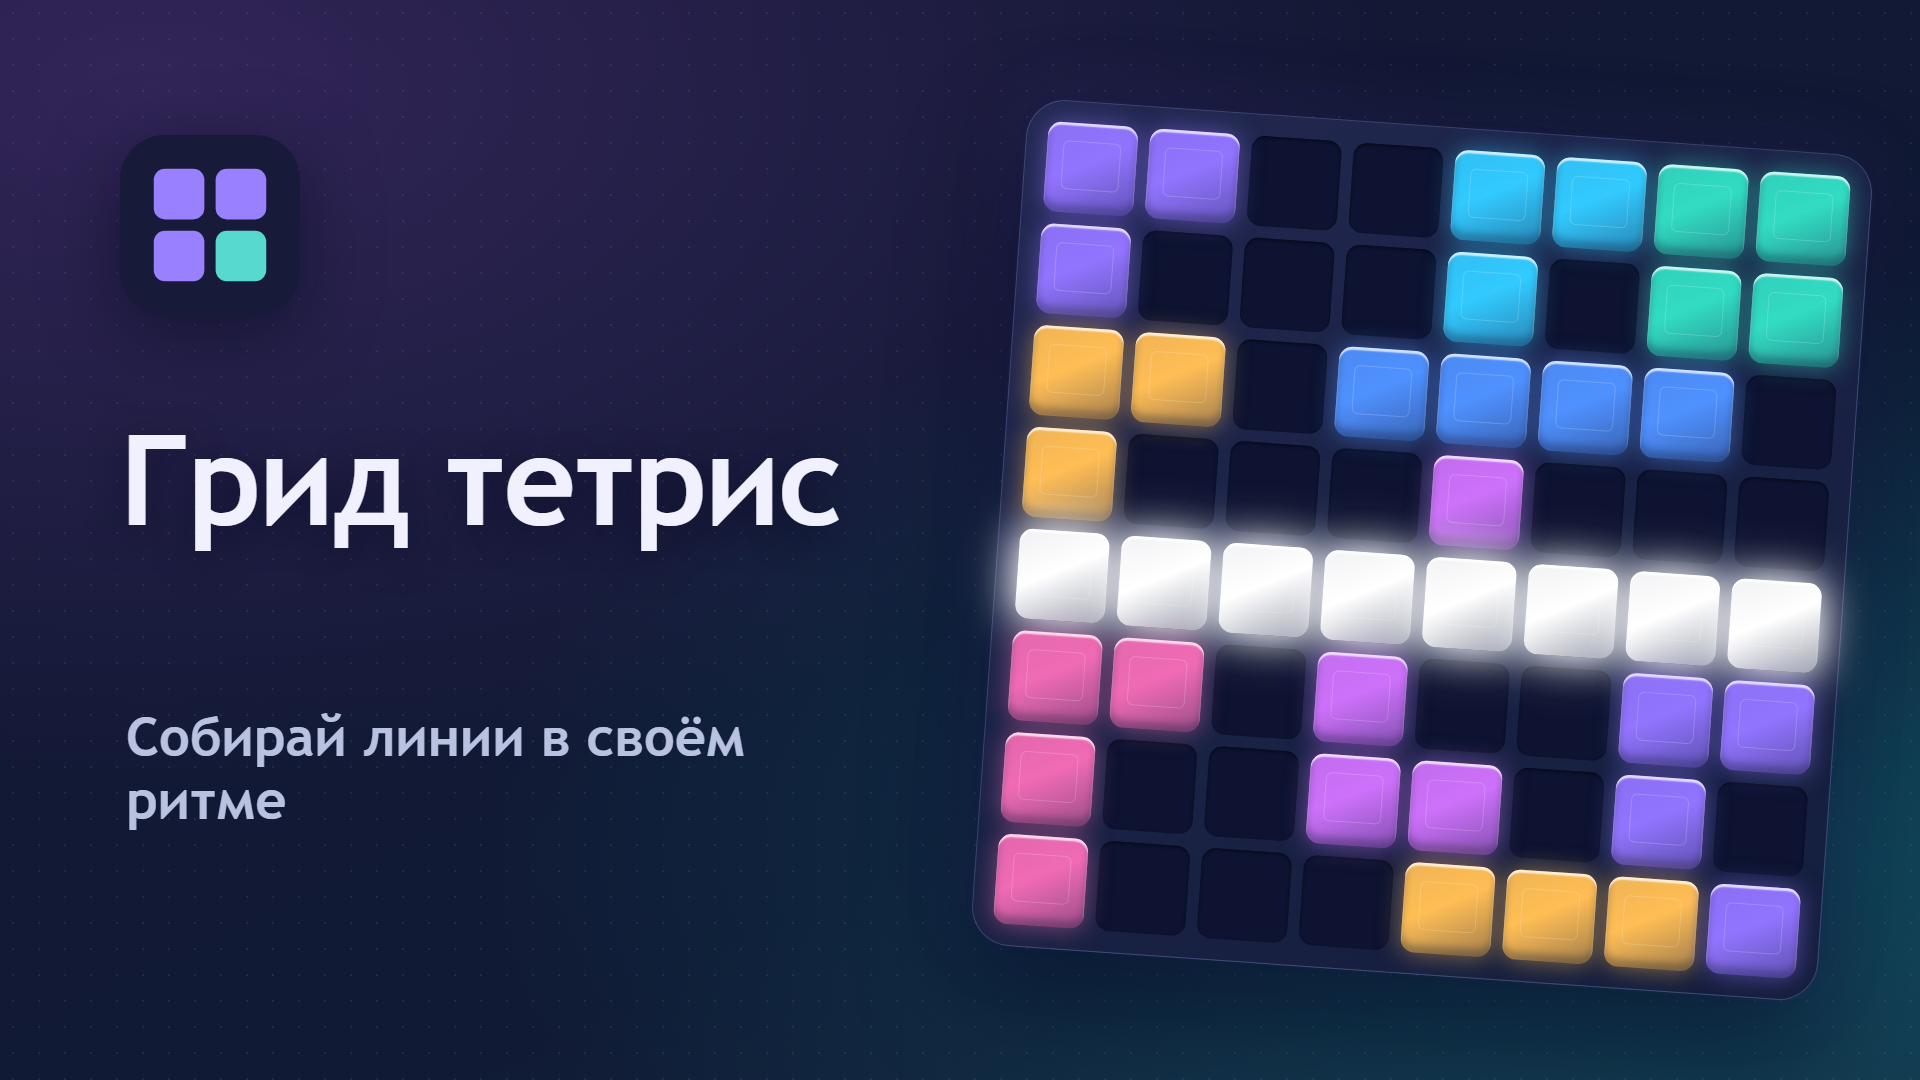
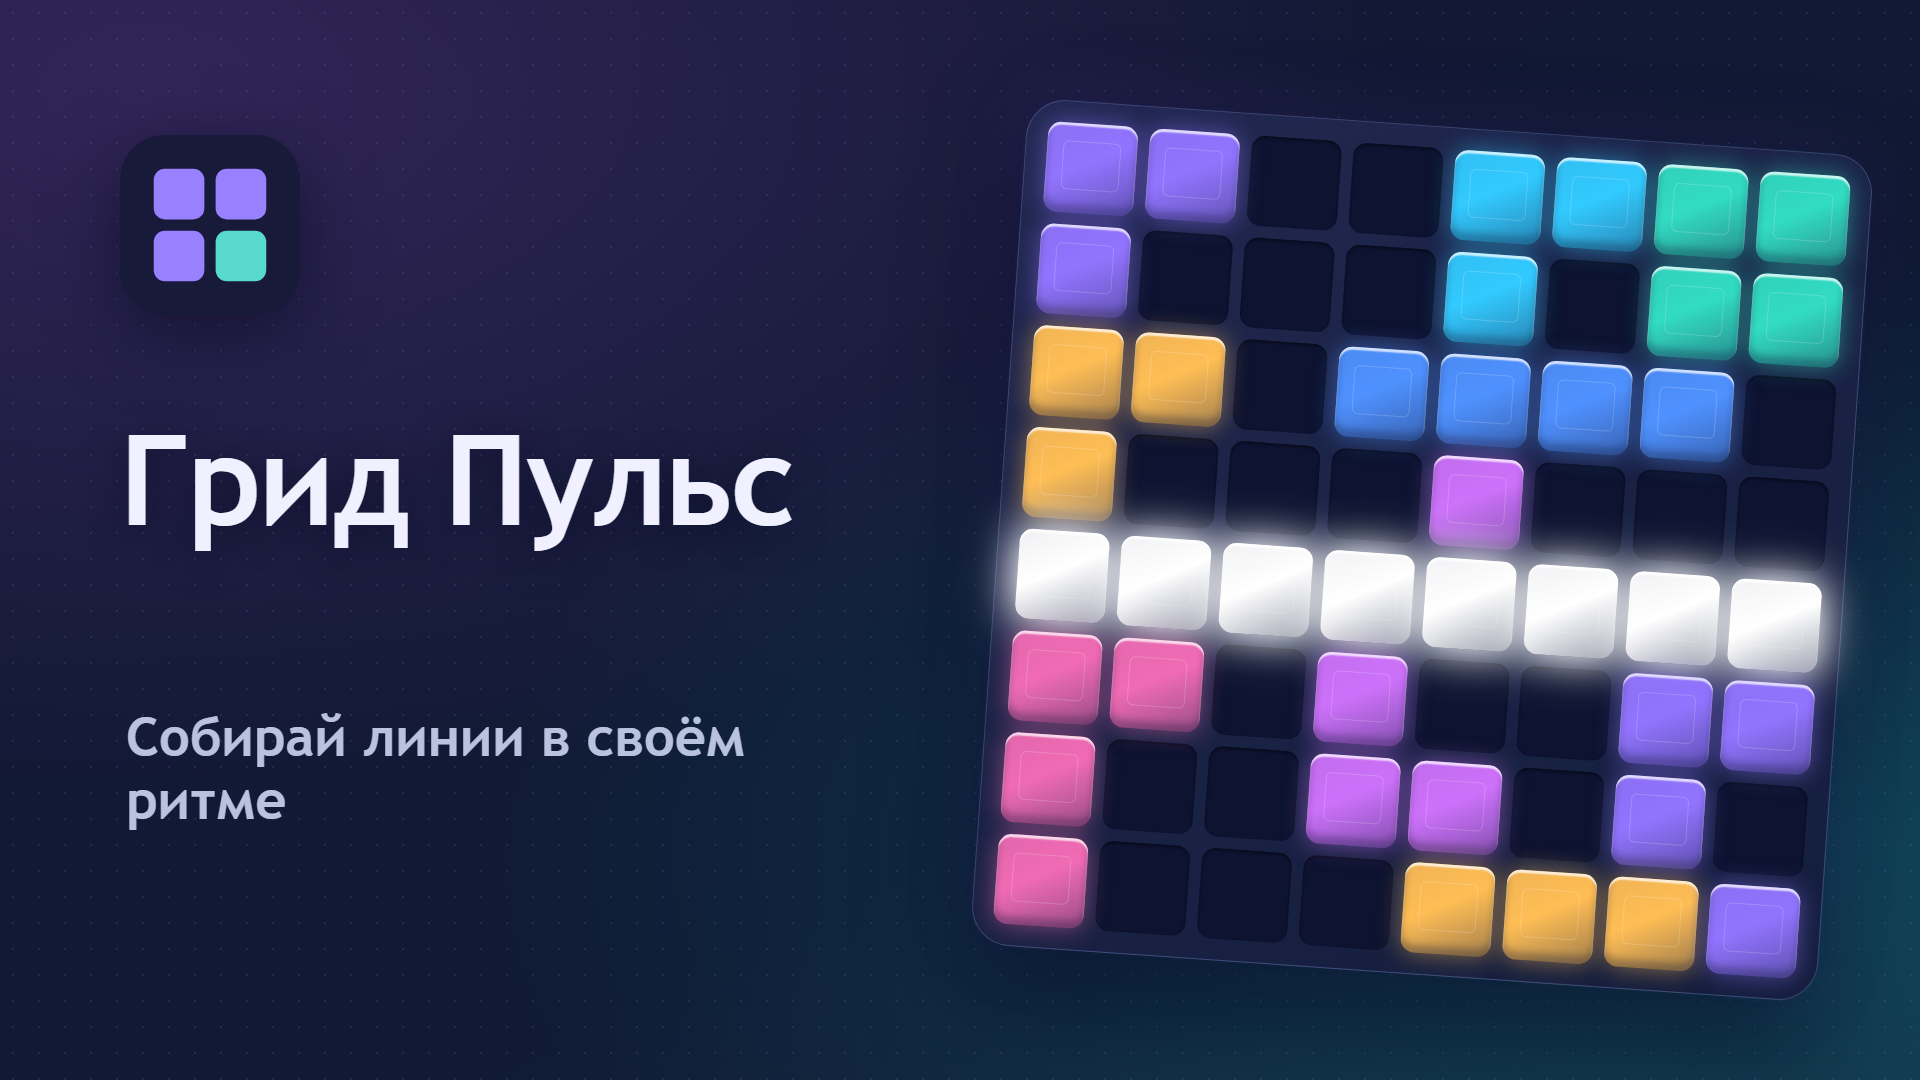
Restore Grid Pulse branding and refresh platform catalogue art

Changed region(s): [[0.2188, 0.3972, 0.4375, 0.5194]]

diff --git a/src/ui/Interface.ts b/src/ui/Interface.ts
@@ -140,7 +140,7 @@ export class Interface {
         <div class="menu-secondary">${hasGame?action('new',c.newGame,'text-button','restart'):''}${action('tutorial',c.howTo,'text-button','help')}</div>
         <p class="quiet-line"><span></span>${c.relaxed}<span></span></p>
         <div class="menu-stats"><div><strong>${number(m.profile.totalLines)}</strong><span>${c.totalLines}</span></div><div class="stat-divider"></div><div><strong>${m.profile.maxCombo}×</strong><span>${c.maxCombo}</span></div></div>
-      </div><footer class="menu-footer">8 × 8 <span>·</span> GRID TETRIS</footer></div>`;
+      </div><footer class="menu-footer">8 × 8 <span>·</span> GRID PULSE</footer></div>`;
   }
   private game(m:UIModel,c:Copy):string {
     const training=m.screen==='tutorial';
@@ -159,7 +159,7 @@ export class Interface {
     let body='';
     if(m.modal==='settings') {
       const toggle=(key:string,title:string,glyph:string,help='')=>`<label class="setting-row"><span class="setting-icon">${icon(glyph)}</span><span class="setting-title">${title}${help?`<small>${help}</small>`:''}</span><input type="checkbox" role="switch" data-setting="${key}" ${(m.profile.settings[key as keyof typeof m.profile.settings])?'checked':''}/><span class="switch" aria-hidden="true"></span></label>`;
-      body=`<div class="modal-heading"><div><p class="eyebrow">GRID TETRIS</p><h2>${c.settings}</h2></div>${iconButton('close',c.close,'close')}</div>
+      body=`<div class="modal-heading"><div><p class="eyebrow">GRID PULSE</p><h2>${c.settings}</h2></div>${iconButton('close',c.close,'close')}</div>
         <div class="settings-list">${toggle('sound',c.sound,'sound')}${toggle('music',c.music,'music')}${toggle('mute',c.mute,'sound')}${toggle('reducedMotion',c.motion,'moon',c.motionHelp)}${toggle('intenseEffects',c.effects,'sparkle')}
         <label class="setting-row"><span class="setting-icon">${icon('globe')}</span><span class="setting-title">${c.language}</span><select data-setting="language" aria-label="${c.language}"><option value="en" ${m.profile.settings.language==='en'?'selected':''}>English</option><option value="ru" ${m.profile.settings.language==='ru'?'selected':''}>Русский</option></select></label></div>
         ${action('close',c.close,'primary')}${m.supportUrl?`<a class="text-button support-link" href="${m.supportUrl}" target="_blank" rel="noopener noreferrer">${icon('help')}<span>${c.support}</span></a>`:''}${m.screen==='game'?`<div class="settings-actions">${action('new',c.newGame,'text-button','restart')}${action('home',c.home,'text-button','home')}</div>`:''}`;

diff --git a/index.html b/index.html
@@ -4,16 +4,16 @@
     <meta charset="UTF-8" />
     <meta name="viewport" content="width=device-width, initial-scale=1, viewport-fit=cover, maximum-scale=1" />
     <meta name="theme-color" content="#11142d" />
-    <meta name="description" content="Grid Tetris — a colorful, unhurried block puzzle. Find your flow on an 8 × 8 grid." />
+    <meta name="description" content="Grid Pulse — a colorful, unhurried block puzzle. Find your flow on an 8 × 8 grid." />
     <link rel="icon" type="image/svg+xml" href="./favicon.svg" />
-    <title>Grid Tetris</title>
+    <title>Grid Pulse</title>
   </head>
   <body>
     <main id="viewport">
       <div id="frame">
-        <div id="game" aria-label="Grid Tetris game board"></div>
+        <div id="game" aria-label="Grid Pulse game board"></div>
         <div id="ui"></div>
-        <div id="loader"><div class="loader-mark"><i></i><i></i><i></i><i></i></div><h1>GRID <b>TETRIS</b></h1><p id="loading-text">Finding your flow…</p><div class="loading-track"><span></span></div></div>
+        <div id="loader"><div class="loader-mark"><i></i><i></i><i></i><i></i></div><h1>GRID <b>PULSE</b></h1><p id="loading-text">Finding your flow…</p><div class="loading-track"><span></span></div></div>
       </div>
     </main>
     <script type="module" src="/src/main.ts"></script>

diff --git a/performance.html b/performance.html
@@ -1,1 +1,1 @@
-<!doctype html><html><head><meta charset="utf-8"><meta name="viewport" content="width=device-width,initial-scale=1"><title>Grid Tetris DEV render benchmark</title><style>body{margin:0;background:#10132a;color:white;font:14px monospace}#game{width:480px;height:850px;float:left}canvas{width:480px;height:850px}button{padding:12px}pre{white-space:pre-wrap}</style></head><body><div id="game"></div><button id="run">Run 12-second benchmark</button><pre id="result">Ready. Same filled board, moving preview and repeated four-line clears. Desktop Chromium, not iPhone FPS.</pre><script type="module" src="/src/debug/RenderBenchmark.ts"></script></body></html>
+<!doctype html><html><head><meta charset="utf-8"><meta name="viewport" content="width=device-width,initial-scale=1"><title>Grid Pulse DEV render benchmark</title><style>body{margin:0;background:#10132a;color:white;font:14px monospace}#game{width:480px;height:850px;float:left}canvas{width:480px;height:850px}button{padding:12px}pre{white-space:pre-wrap}</style></head><body><div id="game"></div><button id="run">Run 12-second benchmark</button><pre id="result">Ready. Same filled board, moving preview and repeated four-line clears. Desktop Chromium, not iPhone FPS.</pre><script type="module" src="/src/debug/RenderBenchmark.ts"></script></body></html>

diff --git a/src/style.css b/src/style.css
@@ -28,7 +28,7 @@ button,input,select{font:inherit}button{color:inherit;cursor:pointer;border:0;-w
 .game-ui .topbar{top:24px}.score-panel{top:84px}.score-value{font-size:60px}.record-pill{top:105px}.record-pill strong{font-size:23px}.board-meta{top:169px}.tray-label{top:640px}.tutorial-skip{top:72px;font-size:11px;padding:8px}
 /* Keep canvas updates in their own compositing/paint boundary, apart from DOM score updates. */
 #game{contain:strict;isolation:isolate;transform:translateZ(0)}
-/* Grid Tetris 2.0 — Neon Glass. Raster glows are cached by Phaser; no persistent per-cell blur. */
+/* Grid Pulse 2.0 — Neon Glass. Raster glows are cached by Phaser; no persistent per-cell blur. */
 #frame{background:radial-gradient(ellipse at 8% 8%,#6d409d35,transparent 50%),radial-gradient(ellipse at 92% 78%,#087b8940,transparent 52%),linear-gradient(155deg,#151735,#101a34 65%,#172b42)}
 .icon-button{background:linear-gradient(145deg,#8c91db1c,#24345142);border-color:#a8b8ff36;box-shadow:inset 0 1px 0 #dfeaff15,0 5px 16px #070c2429}
 .primary{background:linear-gradient(120deg,#a087ff,#7b75ed 60%,#6d95ed);border:1px solid #c3b5ff70;box-shadow:inset 0 2px 0 #e4eaff66,0 4px 0 #474685,0 0 24px #8c79ed22}

diff --git a/src/ui/icons.ts b/src/ui/icons.ts
@@ -18,4 +18,4 @@ const paths: Record<string, string> = {
 export function icon(name: string, className = ''): string {
   return `<svg class="icon ${className}" viewBox="0 0 24 24" fill="none" stroke="currentColor" stroke-width="1.7" stroke-linecap="round" stroke-linejoin="round" aria-hidden="true">${paths[name] ?? paths.sparkle}</svg>`;
 }
-export const logo = '<span class="brand-mark" aria-hidden="true"><i></i><i></i><i></i><i></i></span><span>GRID <b>TETRIS</b></span>';
+export const logo = '<span class="brand-mark" aria-hidden="true"><i></i><i></i><i></i><i></i></span><span>GRID <b>PULSE</b></span>';

diff --git a/public/assets/LICENSES.md b/public/assets/LICENSES.md
@@ -1,6 +1,6 @@
-# Grid Tetris assets
+# Grid Pulse assets
 
-All visual artwork, UI icons, block textures, effects, and audio compositions in this project were created specifically for Grid Tetris. No Block Blast assets or third-party sample packs were used.
+All visual artwork, UI icons, block textures, effects, and audio compositions in this project were created specifically for Grid Pulse. No Block Blast assets or third-party sample packs were used.
 
 ## Audio
 
@@ -8,7 +8,7 @@ Files: `audio/pick`, `place`, `clear`, `combo`, `record`, `ui`, `ambient`, each 
 
 Original offline synthesis and composition: `scripts/generate-audio.mjs`, created for this project, 2026-10-31. Rendered as PCM and encoded to Ogg Vorbis and MP3 with FFmpeg. The ambient composition is a 32-second harmonic loop; effects are separate rendered assets. Runtime only plays these local files; it does not synthesize Web Audio tones. OGG is preferred for gapless looping; MP3 loop timing can vary by browser decoder.
 
-These original project assets may be used, modified and distributed, including commercially, with the Grid Tetris project, without attribution requirements. No exclusive ownership of purely AI-generated material is asserted where local law does not recognize it.
+These original project assets may be used, modified and distributed, including commercially, with the Grid Pulse project, without attribution requirements. No exclusive ownership of purely AI-generated material is asserted where local law does not recognize it.
 
 ## Graphics
 
